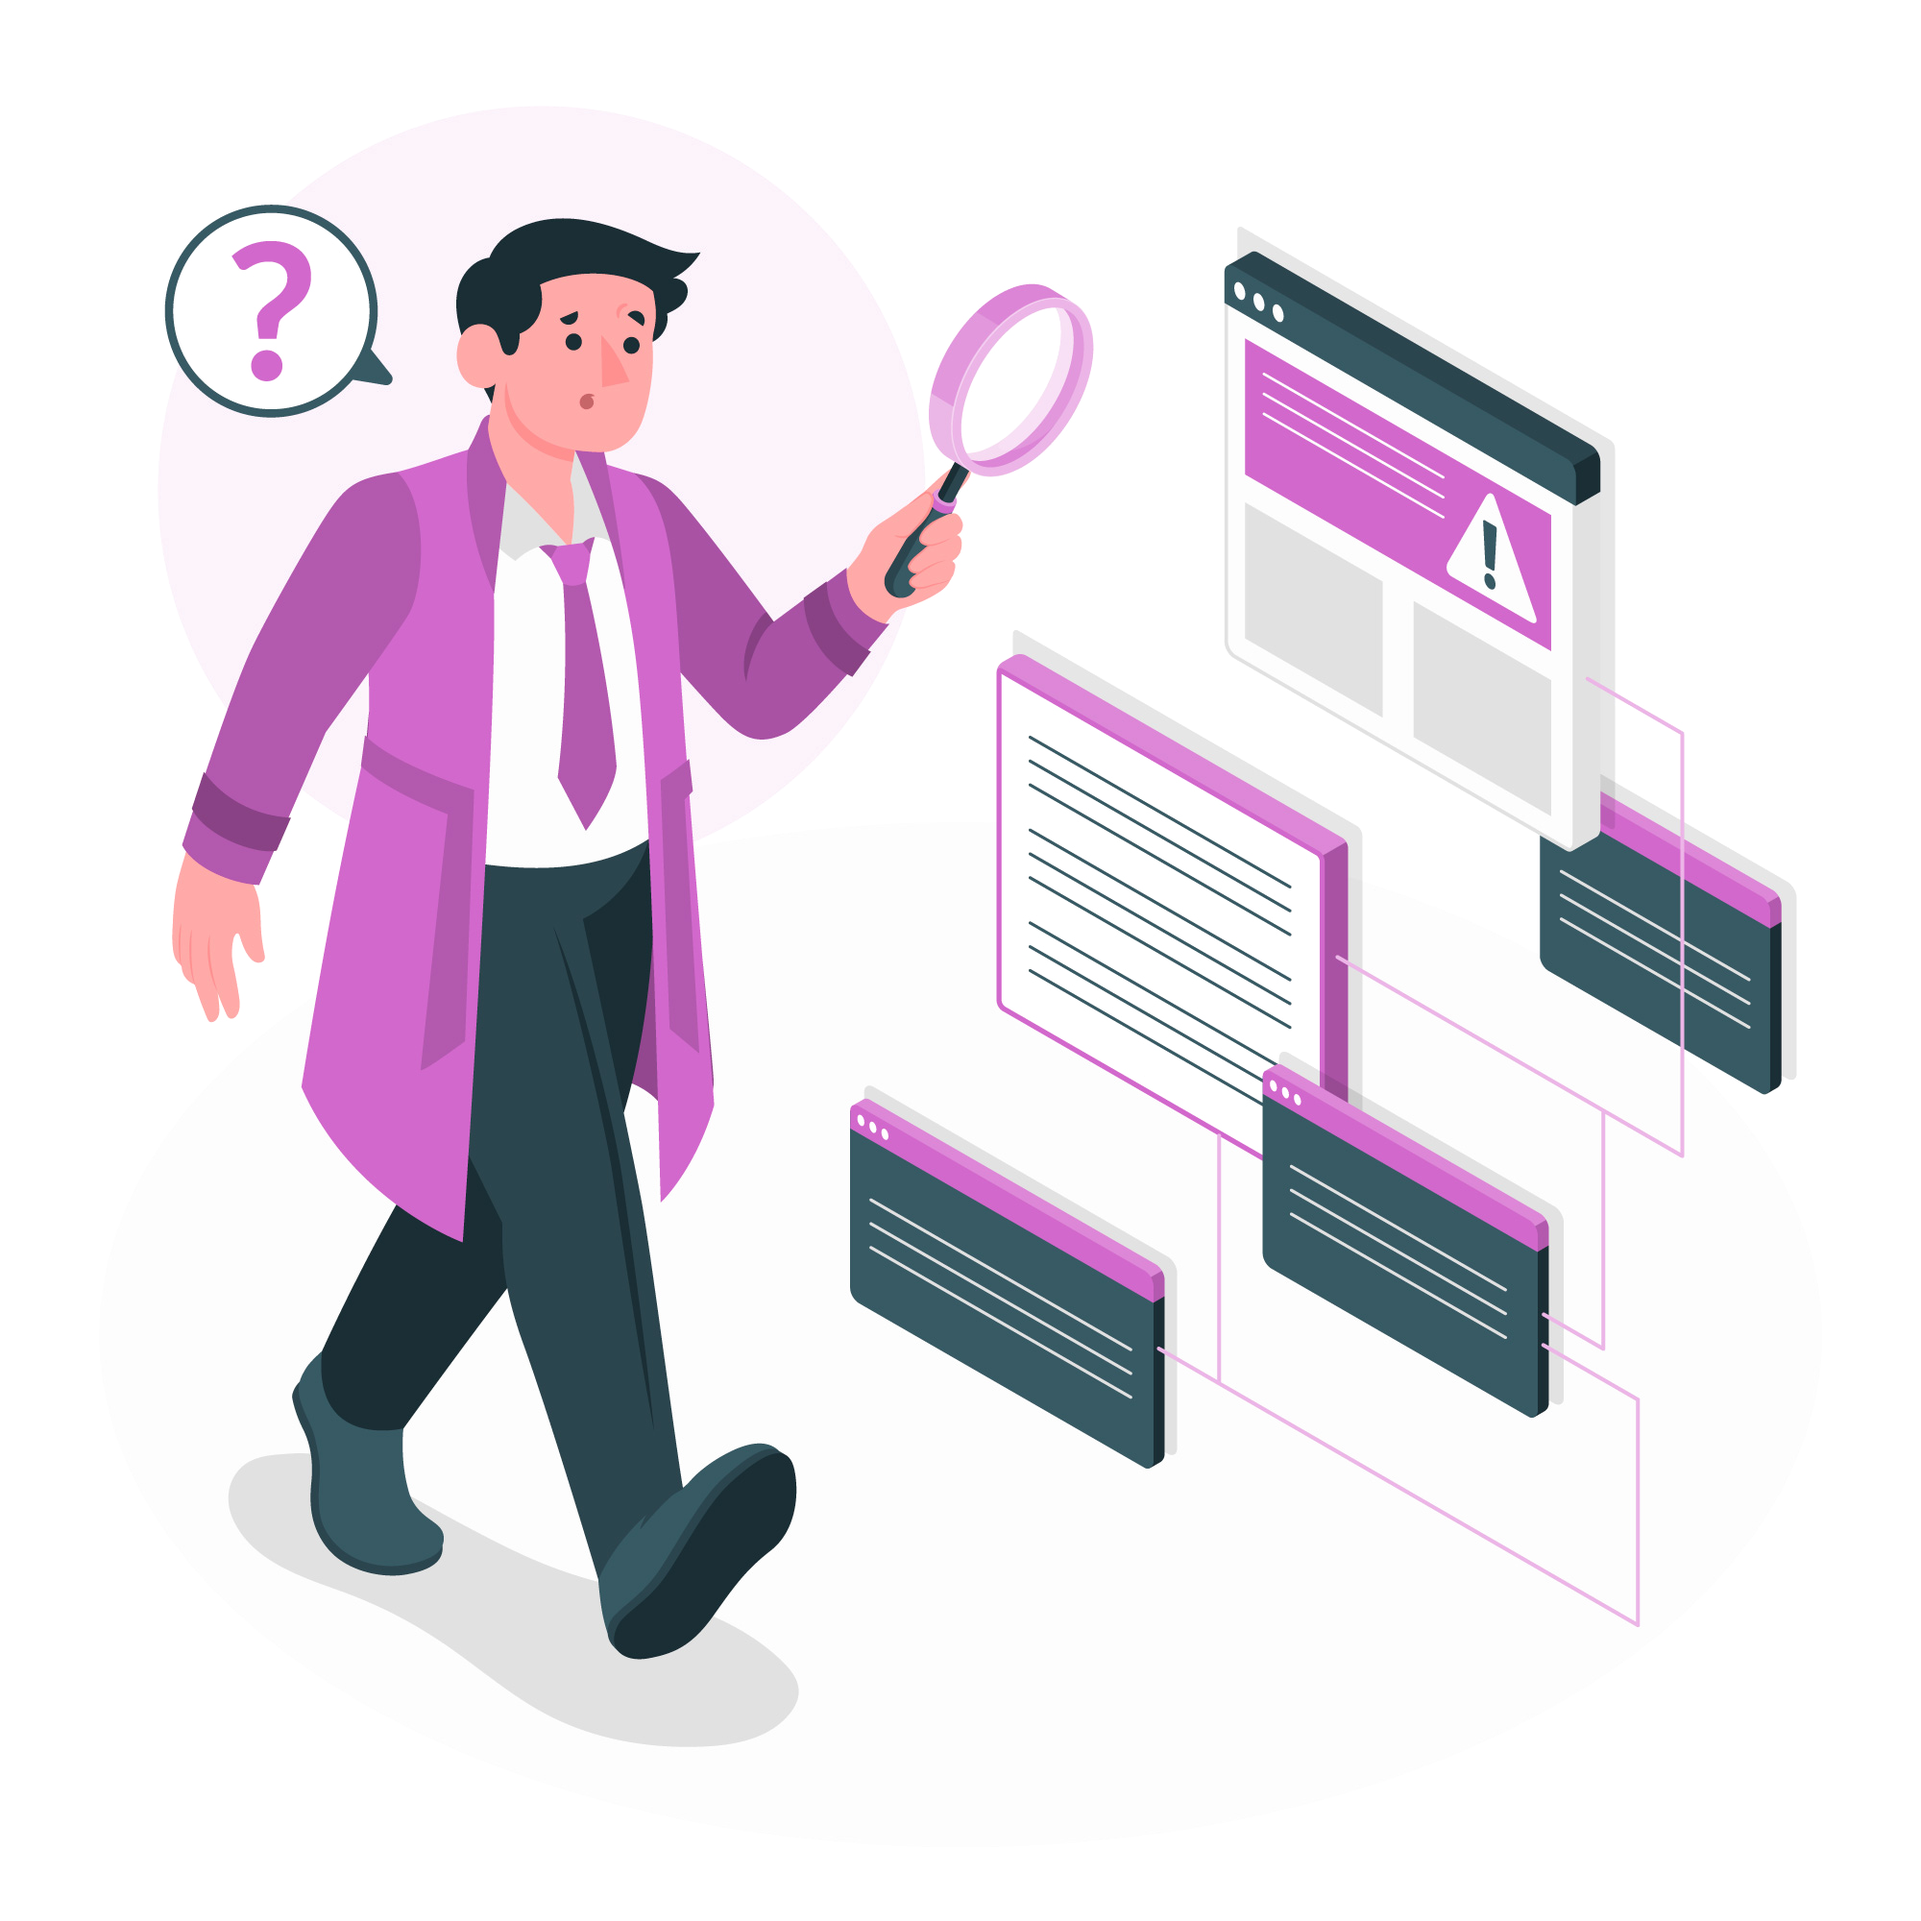
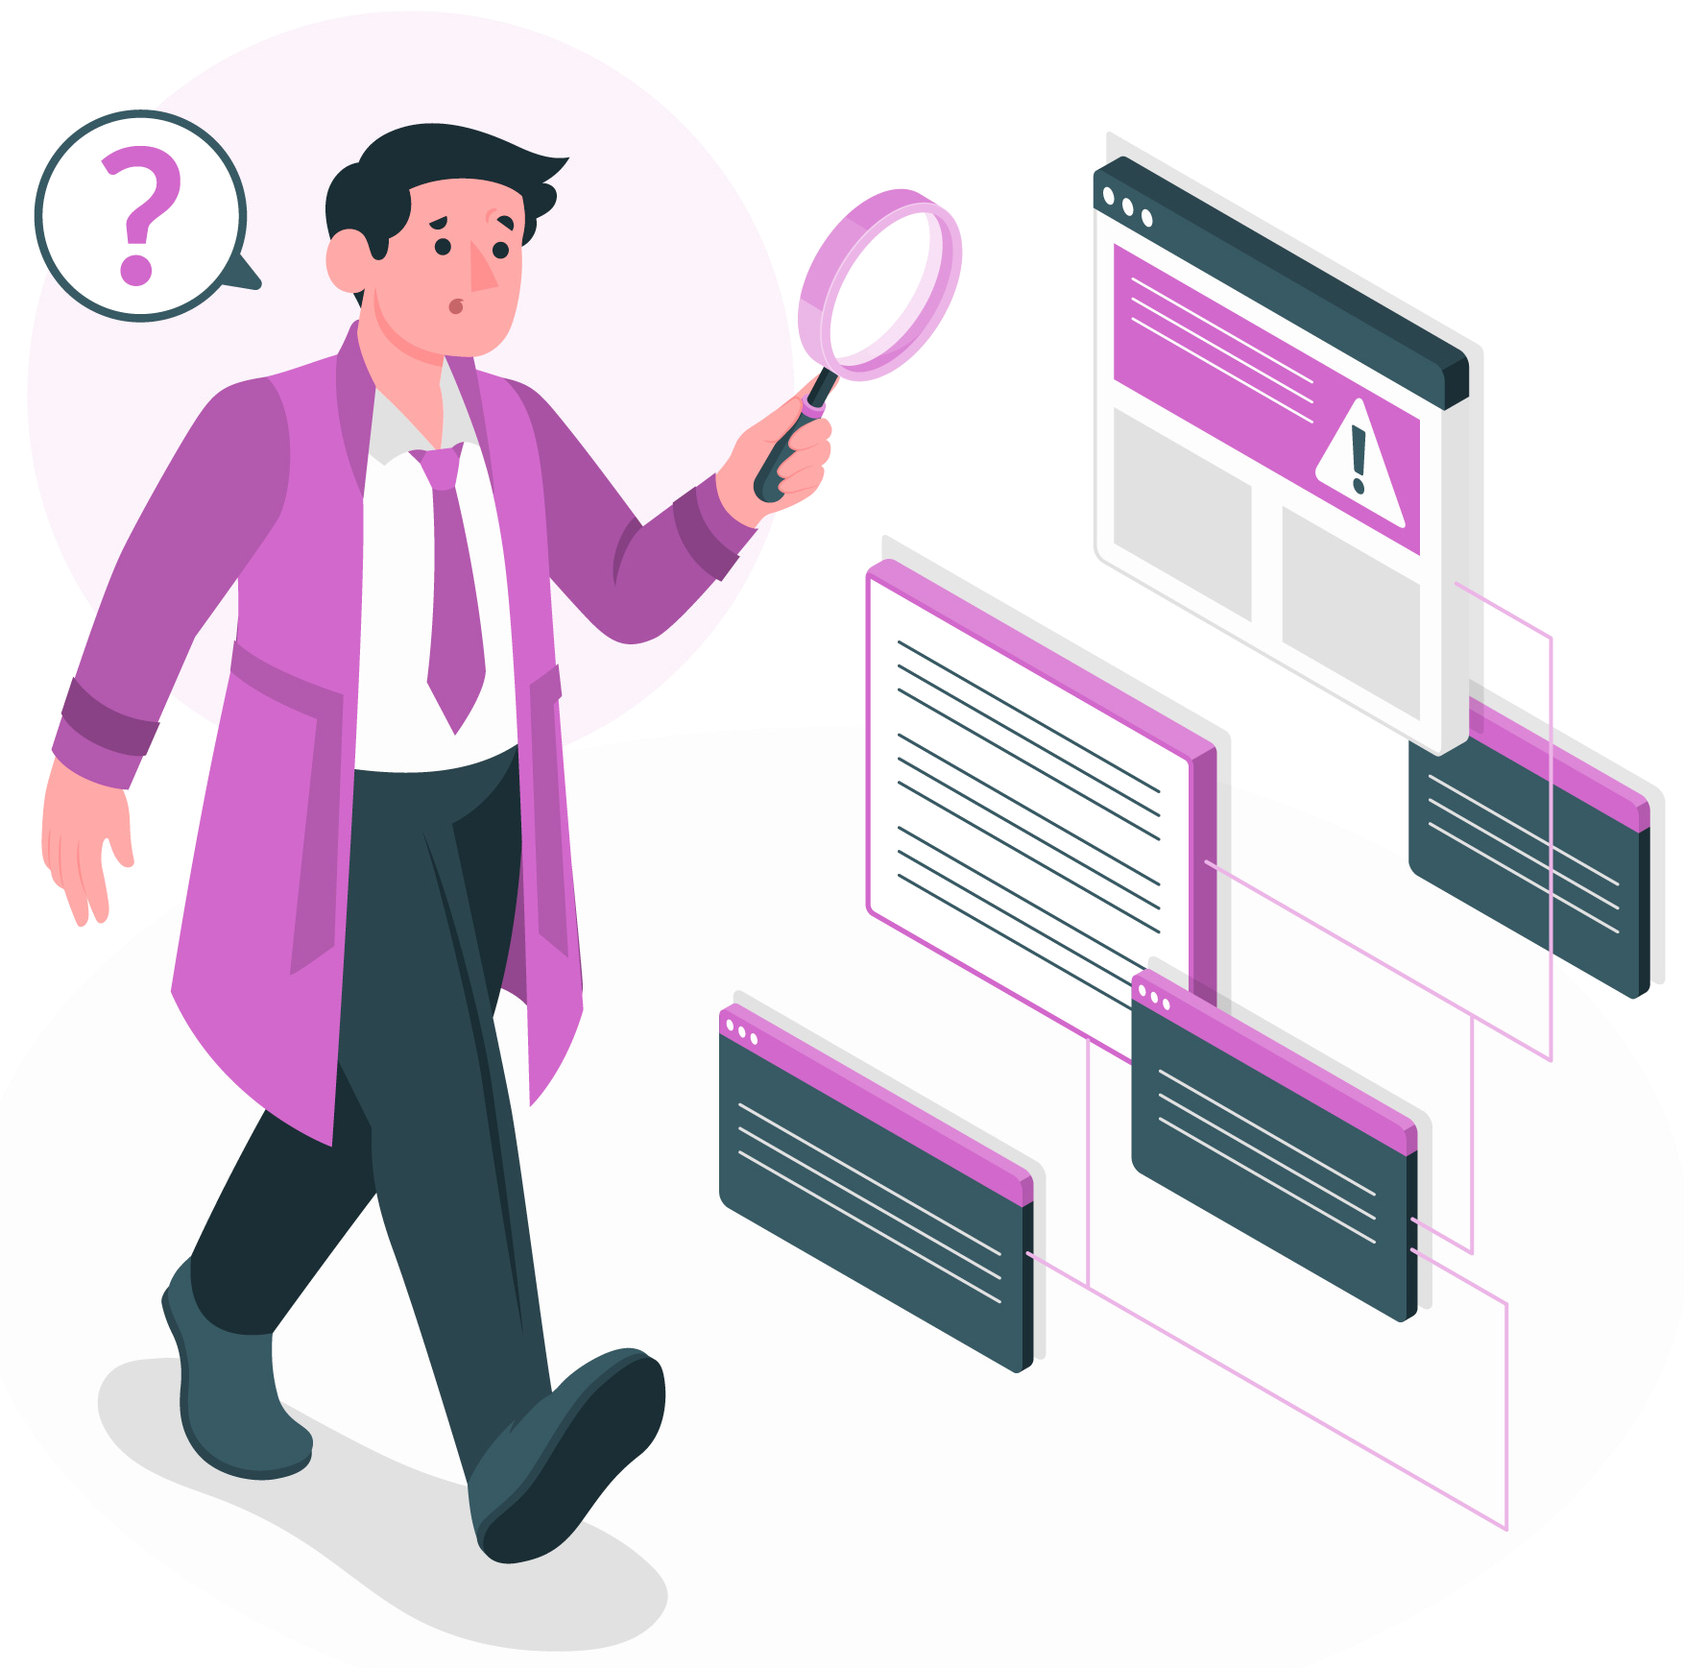
added loading state in dashboard

diff --git a/src/components/Shared/HomePage/HeroSection.tsx b/src/components/Shared/HomePage/HeroSection.tsx
@@ -13,14 +13,14 @@ const HeroSection = () => {
         backgroundImage: `linear-gradient(rgba(255 255 255/0), rgba(255 255 255/0)), url("${GridImage.src}")`,
       }}
     >
-      <div className="container flex max-md:flex-col-reverse items-center gap-5">
+      <div className="container flex flex-col-reverse md:flex-row items-center gap-5">
         <div className="flex flex-col gap-5 max-md:items-center items-start max-w-[60%]">
-          <h1 className="text-4xl lg:text-5xl max-md:text-center lg:font-bold font-semibold uppercase lg:leading-[3.8rem]">
+          <h1 className="text-4xl sm:text-5xl max-md:text-center lg:font-bold font-semibold uppercase lg:leading-[3.8rem]">
             <span className="text-pink-500">Connecting People</span> <br />
             with Their Possessions!
           </h1>
 
-          <p className="text-xl max-md:text-center lg:w-[70%]">
+          <p className="text-lg sm:text-xl max-md:text-center lg:w-[70%]">
             Reuniting Lost Items with Their Owners. Report Found Items. Search
             and Claim What {"You've"} Lost.
           </p>
@@ -42,11 +42,11 @@ const HeroSection = () => {
           </div>
         </div>
 
-        <div className="relative max-md:size-[70vw] size-[40vw]">
+        <div className="relative max-sm:size-[70vw] sm:size-[50vw] lg:size-[40vw]">
           <Image
             fill
             src={SearchingImage1.src}
-            className="object-cover"
+            className="object-contain"
             alt="Searching item"
           />
         </div>

diff --git a/src/app/(admin)/admin/dashboard/page.tsx b/src/app/(admin)/admin/dashboard/page.tsx
@@ -1,10 +1,13 @@
+import DashboardMetaDataLoading from "@/components/Loaders/DashboardMetaDataLoading";
+import DataTableLoading from "@/components/Loaders/DataTableLoading";
 import DashboardMetaData from "@/components/Shared/Dashboard/DashboardMetaData";
 import RecentFoundItemsDataTable from "@/components/Shared/Dashboard/RecentFoundItemsDataTable";
 import RecentLostItemsDataTable from "@/components/Shared/Dashboard/RecentLostItemsDataTable";
 import { Button } from "@/components/ui/button";
 import Link from "next/link";
+import { Suspense } from "react";
 
-const AdminDashboardPage = async () => {
+const AdminDashboardPage = () => {
   return (
     <main className="container !py-10 !px-2 sm:!px-4">
       <div className="flex justify-between gap-4">
@@ -16,11 +19,17 @@ const AdminDashboardPage = async () => {
         </Link>
       </div>
 
-      <DashboardMetaData />
+      <Suspense fallback={<DashboardMetaDataLoading />}>
+        <DashboardMetaData />
+      </Suspense>
 
       <div className="mt-10 xl:grid grid-cols-2 gap-3">
-        <RecentFoundItemsDataTable />
-        <RecentLostItemsDataTable />
+        <Suspense fallback={<DataTableLoading />}>
+          <RecentFoundItemsDataTable />
+        </Suspense>
+        <Suspense fallback={<DataTableLoading />}>
+          <RecentLostItemsDataTable />
+        </Suspense>
       </div>
     </main>
   );

diff --git a/src/app/(root)/my-found-items/loading.tsx b/src/app/(root)/my-found-items/loading.tsx
@@ -1,0 +1,27 @@
+import SearchResultLoading from "@/components/Loaders/SearchResultLoading";
+import Filters from "@/components/Shared/Filters";
+import { Button } from "@/components/ui/button";
+
+const loading = () => {
+  return (
+    <main className="px-2 sm:px-4">
+      <div className="container !py-10">
+        <div className="flex max-sm:flex-col items-center justify-between gap-5">
+          <h1 className="text-4xl font-semibold">My Found Items</h1>
+
+          <Button className="bg-pink-500 hover:bg-pink-600">
+            Report A Found Item
+          </Button>
+        </div>
+
+        <div className="mt-5 flex gap-3 justify-center items-center flex-wrap max-w-screen-md mx-auto">
+          <Filters />
+        </div>
+
+        <SearchResultLoading />
+      </div>
+    </main>
+  );
+};
+
+export default loading;

diff --git a/src/app/(root)/my-lost-items/loading.tsx b/src/app/(root)/my-lost-items/loading.tsx
@@ -1,0 +1,26 @@
+import SearchResultLoading from "@/components/Loaders/SearchResultLoading";
+import Filters from "@/components/Shared/Filters";
+import { Button } from "@/components/ui/button";
+
+const loading = () => {
+  return (
+    <main className="px-2 sm:px-4">
+      <div className="container !py-10">
+        <div className="flex max-sm:flex-col items-center justify-between gap-5">
+          <h1 className="text-4xl font-semibold">My Lost Items</h1>
+
+          <Button className="bg-pink-500 hover:bg-pink-600">
+            Report A Lost Item
+          </Button>
+        </div>
+
+        <div className="mt-5 flex gap-3 justify-center items-center flex-wrap max-w-screen-md mx-auto">
+          <Filters />
+        </div>
+        <SearchResultLoading />
+      </div>
+    </main>
+  );
+};
+
+export default loading;

diff --git a/src/components/Loaders/DataTableLoading.tsx b/src/components/Loaders/DataTableLoading.tsx
@@ -1,0 +1,24 @@
+const DataTableLoading = () => {
+  return (
+    <div className="mt-5 border-2 border-gray-500 rounded-lg p-2 bg-gray-50">
+      <div className="mb-3 mx-auto h-5 w-40 bg-gray-300 animate-pulse rounded-3xl"></div>
+
+      <div className="overflow-x-auto">
+        <div className="min-w-[600px]">
+          <div className="text-sm p-2 h-8 font-semibold bg-gray-500 text-white animate-pulse rounded-md grid gap-3 grid-cols-5 mb-2"></div>
+
+          {Array(10)
+            .fill(0)
+            .map((_, i) => (
+              <div
+                key={"item data table loading - " + i + Math.random()}
+                className="rounded-md mb-2 w-full h-8 animate-pulse bg-gray-300"
+              ></div>
+            ))}
+        </div>
+      </div>
+    </div>
+  );
+};
+
+export default DataTableLoading;

diff --git a/src/app/(admin)/admin/dashboard/loading.tsx b/src/app/(admin)/admin/dashboard/loading.tsx
@@ -1,0 +1,24 @@
+import DashboardMetaDataLoading from "@/components/Loaders/DashboardMetaDataLoading";
+import DataTableLoading from "@/components/Loaders/DataTableLoading";
+import { Button } from "@/components/ui/button";
+
+const loading = () => {
+  return (
+    <main className="container !py-10 !px-2 sm:!px-4">
+      <div className="flex justify-between gap-4">
+        <h1 className="text-4xl font-semibold">Dashboard</h1>
+
+        <Button className="bg-pink-500 hover:bg-pink-600">Manage Users</Button>
+      </div>
+
+      <DashboardMetaDataLoading />
+
+      <div className="mt-10 xl:grid grid-cols-2 gap-3">
+        <DataTableLoading />
+        <DataTableLoading />
+      </div>
+    </main>
+  );
+};
+
+export default loading;

diff --git a/src/components/Loaders/DashboardMetaDataLoading.tsx b/src/components/Loaders/DashboardMetaDataLoading.tsx
@@ -1,0 +1,18 @@
+const DashboardMetaDataLoading = () => {
+  return (
+    <div className="mt-10 grid grid-cols-2 sm:grid-cols-3 gap-2 sm:gap-5">
+      {Array(5)
+        .fill(0)
+        .map((_, i) => (
+          <div
+            className={`rounded-lg h-32 bg-gray-200 animate-pulse ${
+              i === 4 ? "col-span-2" : ""
+            }`}
+            key={"dashobard card loading - " + i}
+          ></div>
+        ))}
+    </div>
+  );
+};
+
+export default DashboardMetaDataLoading;

diff --git a/src/app/(admin)/loading.tsx b/src/app/(admin)/loading.tsx
@@ -1,0 +1,11 @@
+import Spinner from "@/components/Loaders/Spinner";
+
+const loading = () => {
+  return (
+    <main className="flex justify-center min-h-[calc(100svh-90px)] items-center">
+      <Spinner className="!size-20 border-pink-500 !border-[5px]" />
+    </main>
+  );
+};
+
+export default loading;

diff --git a/src/app/(admin)/admin/manage-users/loading.tsx b/src/app/(admin)/admin/manage-users/loading.tsx
@@ -1,0 +1,9 @@
+const loading = () => {
+  return (
+    <div>
+      <h1>loading</h1>
+    </div>
+  );
+};
+
+export default loading;
